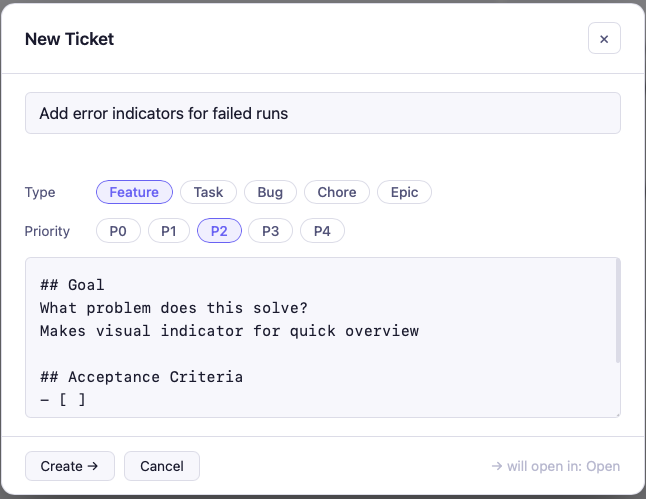
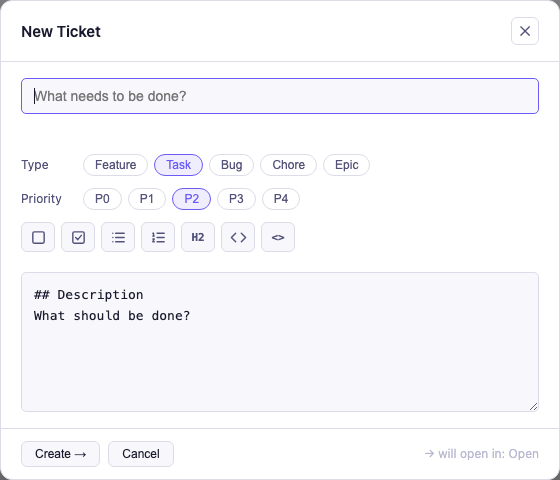
feat: add ticket markdown toolbar

diff --git a/tools/sprint-check-app/app.html b/tools/sprint-check-app/app.html
@@ -722,6 +722,29 @@
         <span class="create-label">Priority</span>
         <div class="create-pills" id="c-priorities"></div>
       </div>
+      <div class="editor-toolbar open" id="c-editor-toolbar">
+        <button class="editor-tool" type="button" data-insert="checkbox" title="Add checkbox" aria-label="Add checkbox">
+          <svg viewBox="0 0 24 24"><rect x="4" y="4" width="16" height="16" rx="2"></rect></svg>
+        </button>
+        <button class="editor-tool" type="button" data-insert="checked" title="Add checked item" aria-label="Add checked item">
+          <svg viewBox="0 0 24 24"><rect x="4" y="4" width="16" height="16" rx="2"></rect><path d="m8 12 3 3 5-6"></path></svg>
+        </button>
+        <button class="editor-tool" type="button" data-insert="bullet" title="Add bullet" aria-label="Add bullet">
+          <svg viewBox="0 0 24 24"><path d="M8 6h12"></path><path d="M8 12h12"></path><path d="M8 18h12"></path><path d="M4 6h.01"></path><path d="M4 12h.01"></path><path d="M4 18h.01"></path></svg>
+        </button>
+        <button class="editor-tool" type="button" data-insert="number" title="Add numbered item" aria-label="Add numbered item">
+          <svg viewBox="0 0 24 24"><path d="M10 6h10"></path><path d="M10 12h10"></path><path d="M10 18h10"></path><path d="M4 6h1v4"></path><path d="M4 10h2"></path><path d="M4 14h2l-2 4h2"></path></svg>
+        </button>
+        <button class="editor-tool" type="button" data-insert="heading" title="Add heading" aria-label="Add heading">
+          <span class="tool-text">H2</span>
+        </button>
+        <button class="editor-tool" type="button" data-insert="code" title="Add inline code" aria-label="Add inline code">
+          <svg viewBox="0 0 24 24"><path d="m16 18 6-6-6-6"></path><path d="m8 6-6 6 6 6"></path></svg>
+        </button>
+        <button class="editor-tool" type="button" data-insert="toggle" title="Add toggle block" aria-label="Add toggle block">
+          <span class="tool-text">&lt;&gt;</span>
+        </button>
+      </div>
       <textarea id="c-body" class="modal-edit-area create-textarea" placeholder="Description" spellcheck="false"></textarea>
     </div>
     <div class="modal-footer">
@@ -1579,8 +1602,7 @@ function linePrefixForTextarea(textarea, prefix) {
   return (needsNewline ? '\n' : '') + prefix;
 }
 
-function insertEditorSnippet(kind) {
-  const textarea = document.getElementById('m-edit-area');
+function insertEditorSnippet(kind, textarea = document.getElementById('m-edit-area')) {
   textarea.focus();
 
   const start = textarea.selectionStart;
@@ -1918,6 +1940,11 @@ document.getElementById('m-editor-toolbar').addEventListener('click', e => {
   const button = e.target.closest('[data-insert]');
   if (!button) return;
   insertEditorSnippet(button.dataset.insert);
+});
+document.getElementById('c-editor-toolbar').addEventListener('click', e => {
+  const button = e.target.closest('[data-insert]');
+  if (!button) return;
+  insertEditorSnippet(button.dataset.insert, document.getElementById('c-body'));
 });
 
 // ── Util ──────────────────────────────────────────────────────────────────

diff --git a/README.md b/README.md
@@ -180,6 +180,12 @@ Toggle between light and dark with the button in the top-right corner.
 
 Click any ticket to see its status, type, priority, readiness, description, and attached docs in one place.
 
+### Edit sprint docs in place
+
+![Edit sprint docs in ticket detail](meta/screenshots/ticket-doc-editor.png)
+
+Open a ticket to read or edit its Description, Acceptance, Blueprint, Plan, and notes without leaving the board.
+
 ### Commit intelligence
 
 ![Commit detail with related ticket](meta/screenshots/commit-detail.png)